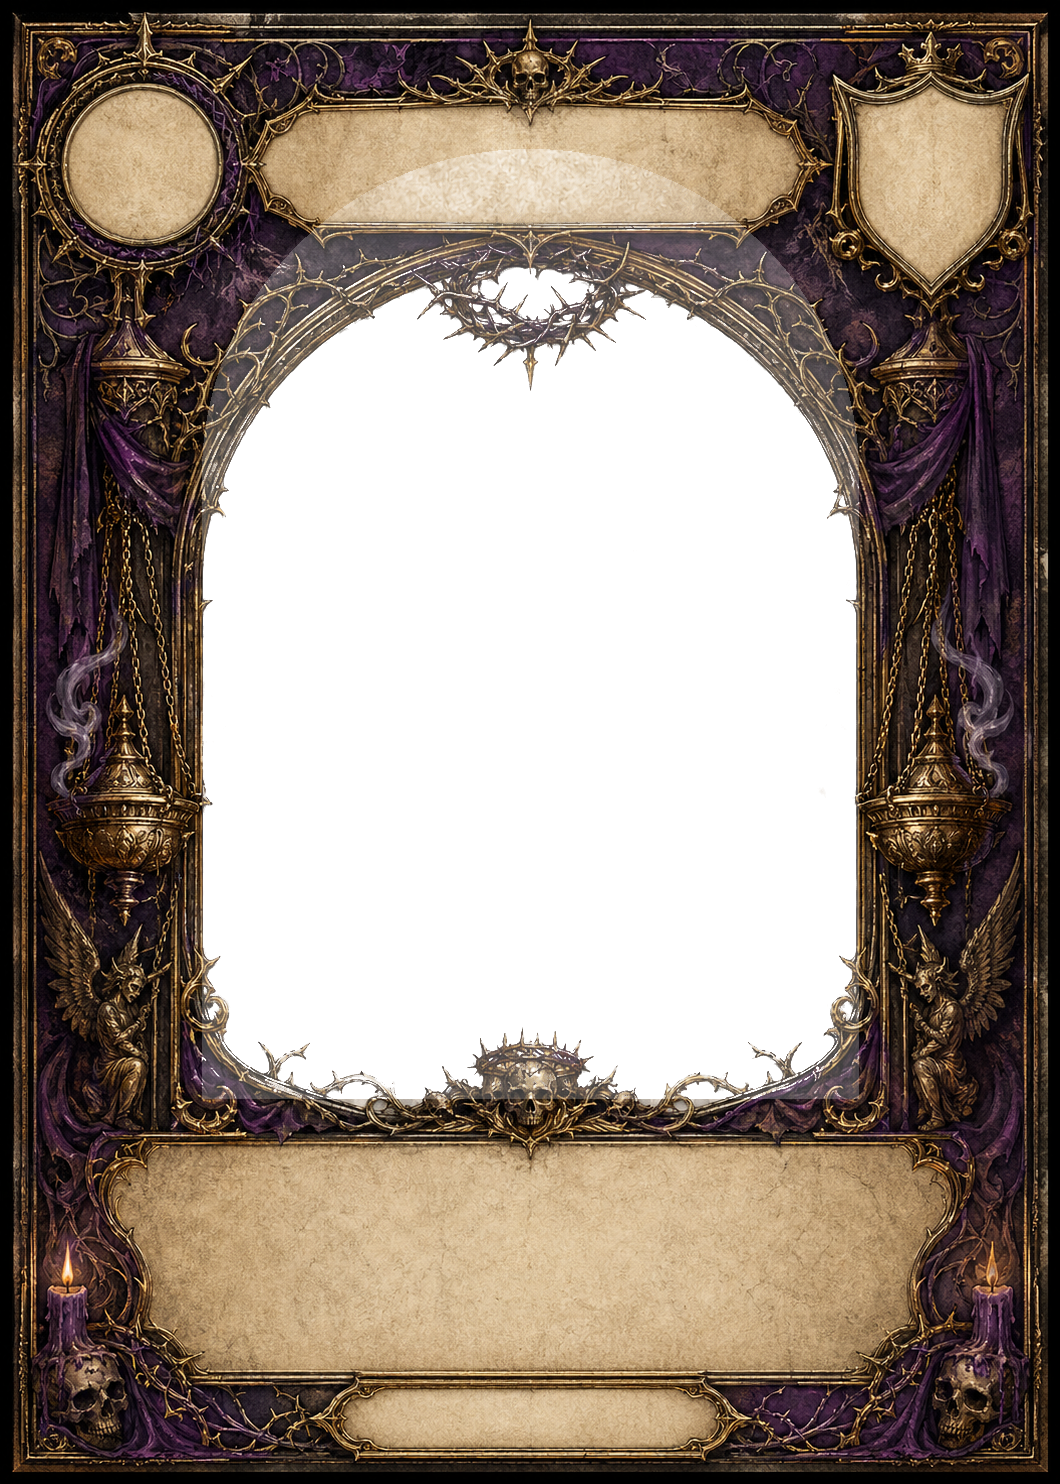
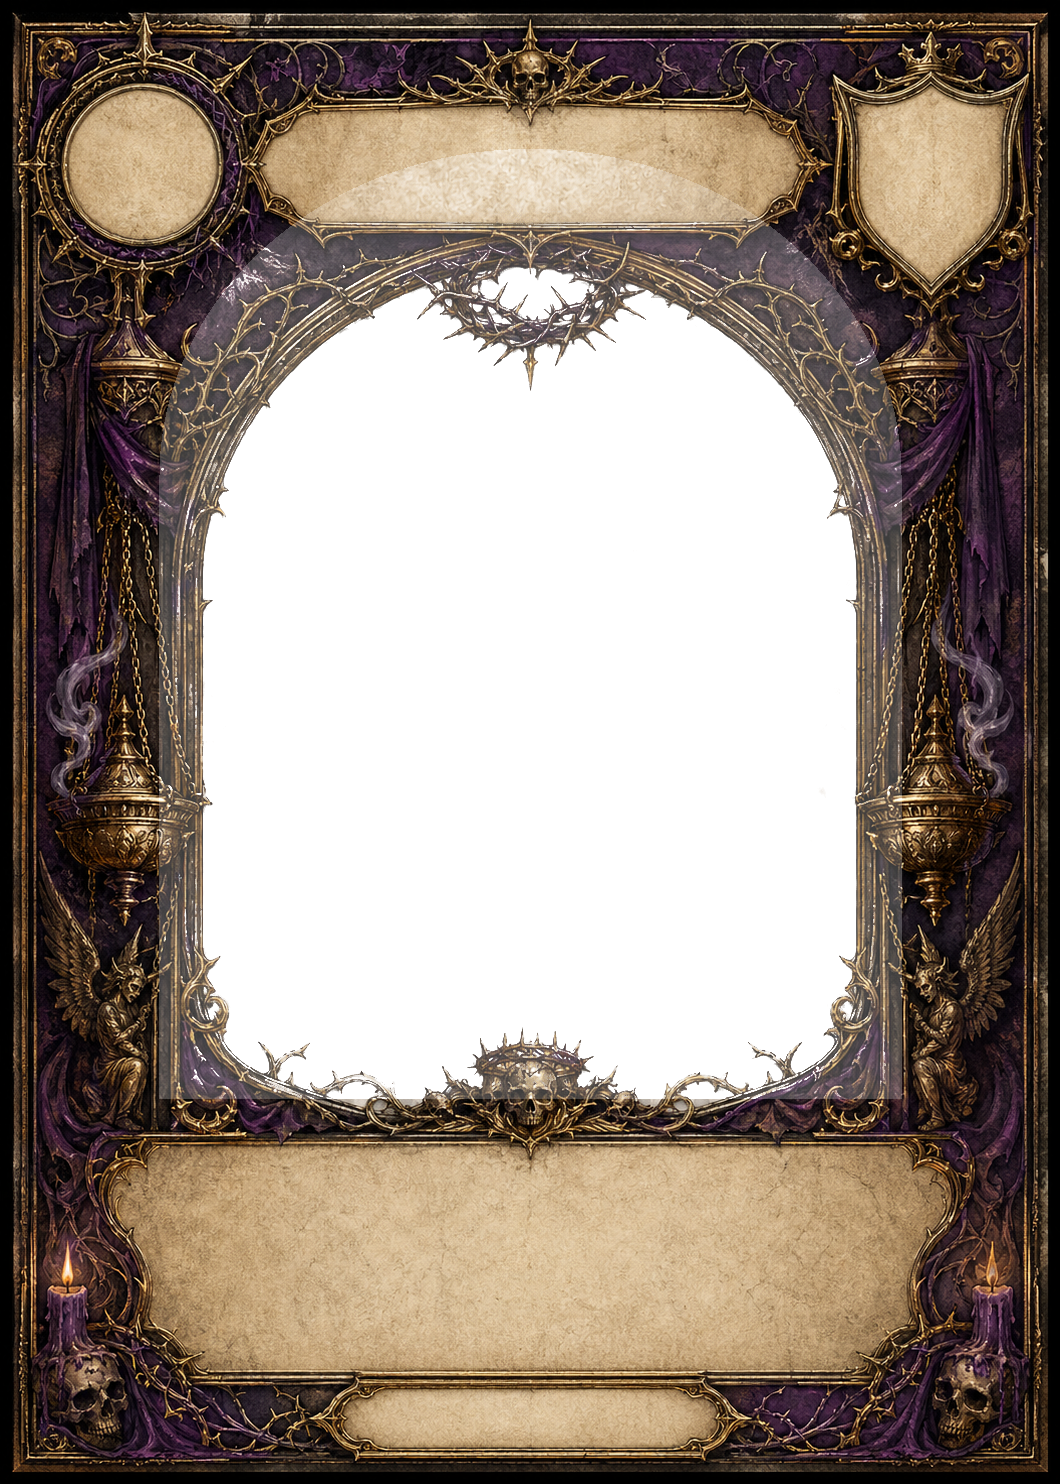
Arche transparente plus large (RX 0.31→0.35) + cost y1=265
https://claude.ai/code/session_011baaC7zEExbd5eSjuzVu4k

diff --git a/tools/extract_arch_alpha.py b/tools/extract_arch_alpha.py
@@ -21,7 +21,7 @@ import numpy as np
 # Arch shape in fractional coordinates: half-ellipse on top + rectangle
 # extending downward. Tweak per-template if the arch layout shifts.
 ARCH_CX, ARCH_CY = 0.50, 0.32
-ARCH_RX, ARCH_RY = 0.31, 0.22
+ARCH_RX, ARCH_RY = 0.35, 0.22
 ARCH_BOTTOM = 0.74
 
 
